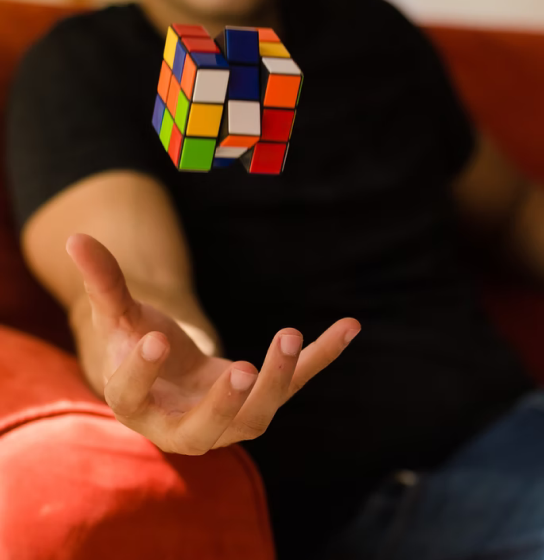
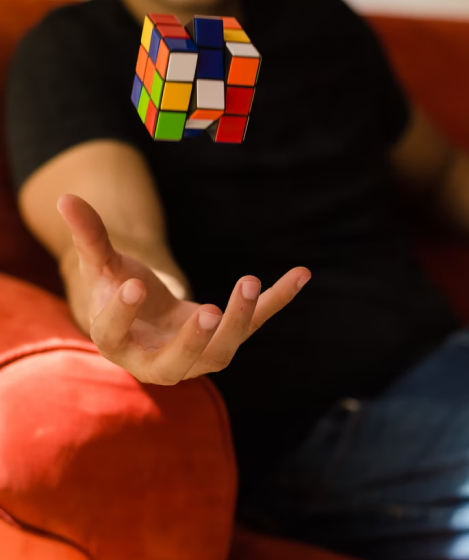
#34 Responsive the extra features section for Desktop screen

diff --git a/Practice-Two/src/styles/layouts/extra-features.css b/Practice-Two/src/styles/layouts/extra-features.css
@@ -60,11 +60,64 @@ EXTRA FEATURES CONTENT
   .extra-features-list {
     display: grid;
     grid-template-columns: 1fr 1fr;
-    gap:  35px 48px;
+    gap: 35px 48px;
     padding-bottom: 39px;
   }
 
   .extra-features-item:nth-of-type(3) {
     order: 4;
+  }
+}
+
+/* 
+  Responsive for 1440px screen 
+*/
+@media screen and (min-width: 1440px) {
+  .extra-features {
+    display: flex;
+    flex-direction: row-reverse;
+    /* align-items: center; */
+    padding: 70px 185px 0px;
+    gap: 131px;
+  }
+
+  /* 
+  EXTRA FEATURES IMAGE
+  */
+  .extra-features-image {
+    width: 469px;
+    padding: 98px 0px 40px;
+  }
+
+  /* 
+    EXTRA FEATURES CONTENT
+  */
+  .extra-features-title {
+    font-weight: 400;
+    font-family: var(--font-family-primary);
+  }
+
+  .extra-features h2, .extra-features h3, .extra-features p {
+    text-align: left;
+  }
+
+  .extra-features-description {
+    padding-bottom: 30px;
+  }
+
+  .extra-features-list {
+    grid-template-columns: 1fr;
+    gap: 18px;
+    padding-bottom: 39px;
+  }
+
+  .extra-features-item {
+    display: grid;
+    grid-template-columns: 12% 88%;
+    gap: 21px;
+  }
+
+  .extra-features-item:nth-of-type(3) {
+    order: unset;
   }
 }
